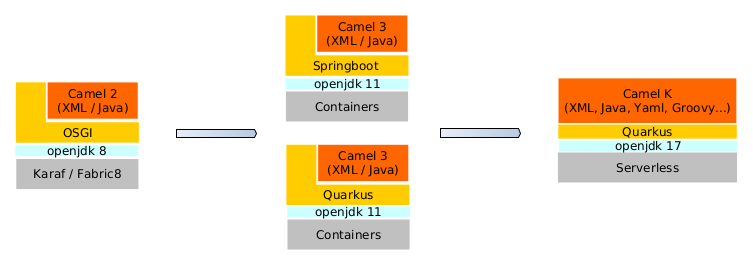
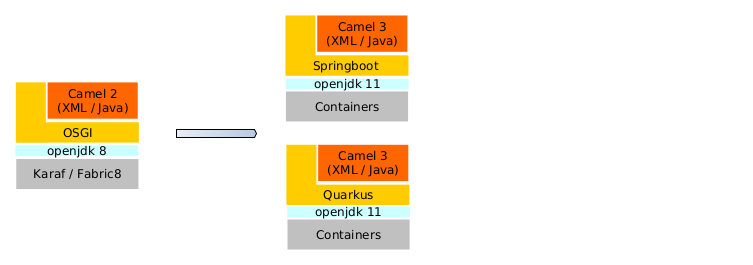
[CI] Publish Documentation for 806158f03c2493583324341281deb1e03f112ed9 - 806158f03c2493583324341281deb1e03f112ed9 🚀

Changed region(s): [[0.7331, 0.2717, 0.9774, 0.6943], [0.5803, 0.483, 0.7025, 0.5434]]

diff --git a/solution-pattern-camel-migration/index.html b/solution-pattern-camel-migration/index.html
@@ -163,7 +163,7 @@
 <p>As  Red Hat Fuse approaches product End of Life (EOL) on June 30, 2024,  Red Hat build of Apache Camel is the natural go-forward solution for integrations built around Red Hat Fuse which is based on an older version of Apache Camel. Fuse will remain in the <a href="https://access.redhat.com/support/policy/updates/jboss_notes#phases" target="_blank" rel="noopener">maintenance life cycle</a> until its EOL.</p>
 </div>
 <div class="paragraph">
-<p>The <a href="https://developers.redhat.com/products/redhat-build-of-apache-camel/overview" target="_blank" rel="noopener">Red Hat build of Apache Camel</a> is the evolution for Red Hat Fuse, and  is a powerful, versatile framework for application integration. It also includes running Camel on Quarkus and Spring Boot runtimes in both on-premise and cloud environments, including the Camel K operator which streamlines building, deploying and operating Camel integrations on OpenShift.</p>
+<p>The <a href="https://developers.redhat.com/products/redhat-build-of-apache-camel/overview" target="_blank" rel="noopener">Red Hat build of Apache Camel</a> is the evolution for Red Hat Fuse, and  is a powerful, versatile framework for application integration. It also includes running Camel on Quarkus and Spring Boot runtimes in both on-premise and cloud environments.</p>
 </div>
 <div class="paragraph">
 <p>Performing such a migration can be scary as the effort is not just limited to migrating the high level Camel routes. Indeed, many other underlying technical components (JDK version, Runtime type, XML format etc.) are involved in the migration.</p>
@@ -185,10 +185,10 @@
 <div class="ulist">
 <ul>
 <li>
-<p>Migrate Fuse 6.x (Blueprint XML, Spring XML or Java) applications to the Red Hat build of Apache Camel, targeting either Sprin Boot 3, Quarkus or Camel K.</p>
+<p>Migrate Fuse 6.x (Blueprint XML, Spring XML or Java) applications to the Red Hat build of Apache Camel, targeting either Sprin Boot 3, Quarkus.</p>
 </li>
 <li>
-<p>Migrate Fuse 7 (Karaf or Spring Boot) applications to the Red Hat build of Apache Camel, targeting either Spring Boot 3, Quarkus or Camel K.</p>
+<p>Migrate Fuse 7 (Karaf or Spring Boot) applications to the Red Hat build of Apache Camel, targeting either Spring Boot 3, Quarkus.</p>
 </li>
 <li>
 <p>Start writing Camel 4.x applications right away with no effort</p>

diff --git a/solution-pattern-camel-migration/02-architecture.html b/solution-pattern-camel-migration/02-architecture.html
@@ -219,12 +219,11 @@ Those templates contains placeholders where code and configuration just need to 
 <div class="sectionbody">
 <div class="paragraph">
 <p>The Red Hat build of Apache Camel is an Cloud-native, multi-language and a multi-runtime integration stack.
-Camel-based integration logic can be written in XML or Java, and can behave as a Spring Boot, a Quarkus, or a Serverless artifact.</p>
+Camel-based integration logic can be written in YAML, XML or Java, and can behave as a Spring Boot or Quarkus.</p>
 </div>
 <div class="paragraph">
 <p>The present demo will take a legacy API developed in JBoss Fuse 6.2 on Karaf, in Blueprint XML.
-It&#8217;s suggested that such an application targets the Quarkus runtime.
-The provided Quarkus template is 100% compatible with Camel K, so the resulting migrated application is immediately ready to be added to a serverless stack.</p>
+It&#8217;s suggested that such an application targets the Quarkus runtime.</p>
 </div>
 <div class="paragraph">
 <p>The material can be used to migrate any Fuse 6 or 7 distribution to the Red Hat build of Apache Camel.
@@ -268,8 +267,8 @@ This path has been chosen for the demonstration because it can be considered the
 </ul>
 </div>
 <div class="paragraph">
-<p>Probably, the target should remain a "standard" container application, ready for Serverless but not mandatorily a Function.<br>
-Thus, the demos will showcase several migrations to "plain" Spring Boot or quarkus applications, and there will be one extra demo to showcase a migration from that result to Camel K.</p>
+<p>Probably, the target should remain a "standard" container application.<br>
+The demos will showcase several migrations to "plain" Spring Boot or quarkus applications.</p>
 </div>
 </div>
 </div>

diff --git a/solution-pattern-camel-migration/03-demo.html b/solution-pattern-camel-migration/03-demo.html
@@ -156,6 +156,30 @@
 <article class="doc">
 <h1 class="page">Solution Pattern: Migrating from Red Hat Fuse to Red build of Apache Camel</h1>
 <h1 id="_see_the_solution_in_action" class="sect0"><a class="anchor" href="#_see_the_solution_in_action"></a><a class="link" href="#_see_the_solution_in_action">See the Solution in Action</a></h1>
+<div class="openblock partintro">
+<div class="content">
+<div class="admonitionblock important">
+<table>
+<tr>
+<td class="icon">
+<i class="fa icon-important" title="Important"></i>
+</td>
+<td class="content">
+<div class="paragraph">
+<p>The solution and examples in this chapter utilize integrations based on <em>Apache Camel K</em>. While <em>Camel K</em> is still active within upstream <em>Apache Camel</em>, Red Hat has shifted its support to a cloud-native approach, focusing on <a href="https://camel.apache.org/manual/camel-jbang.html" target="_blank" rel="noopener"><em>Camel JBang</em></a> and <a href="https://kaoto.io" target="_blank" rel="noopener"><em>Kaoto</em></a> as primary development tools.</p>
+</div>
+<div class="paragraph">
+<p>As a result, all Camel K instances in this Solution Pattern will transition to the <a href="https://developers.redhat.com/products/redhat-build-of-apache-camel/overview" target="_blank" rel="noopener">Red Hat build of Apache Camel</a>, aligning with Red Hat&#8217;s new strategic direction.</p>
+</div>
+</td>
+</tr>
+</table>
+</div>
+<div class="paragraph">
+<p><br></p>
+</div>
+</div>
+</div>
 <div class="sect1">
 <h2 id="_demonstration"><a class="anchor" href="#_demonstration"></a><a class="link" href="#_demonstration">1. Demonstration</a></h2>
 <div class="sectionbody">
